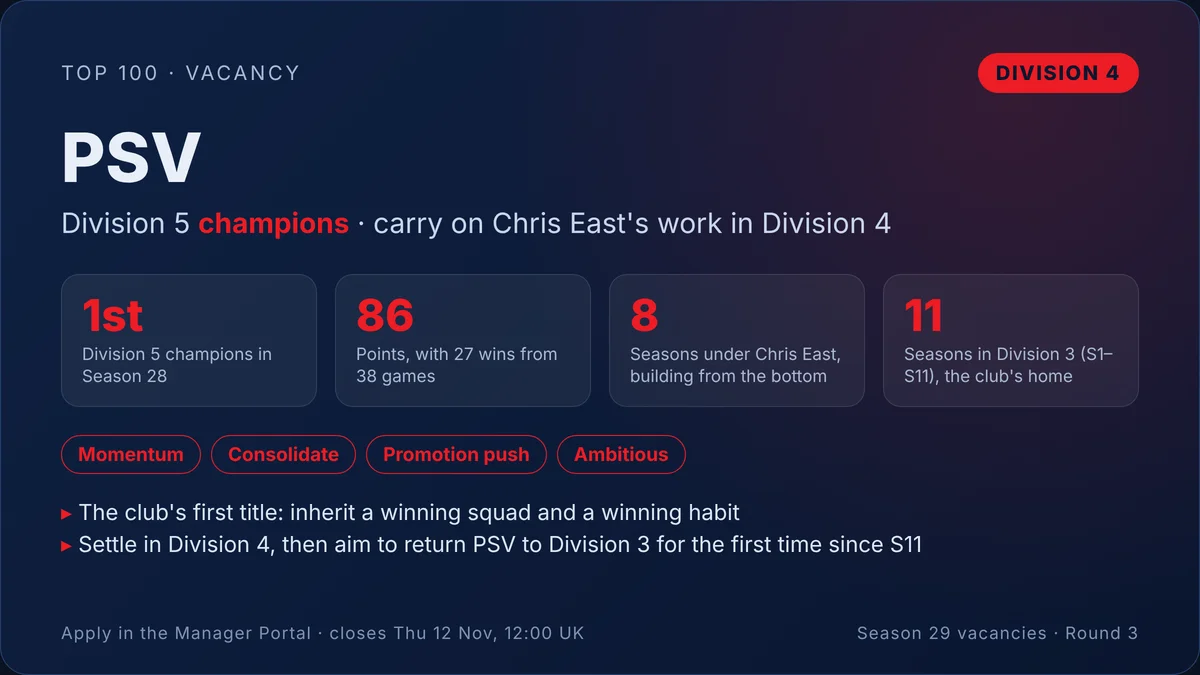
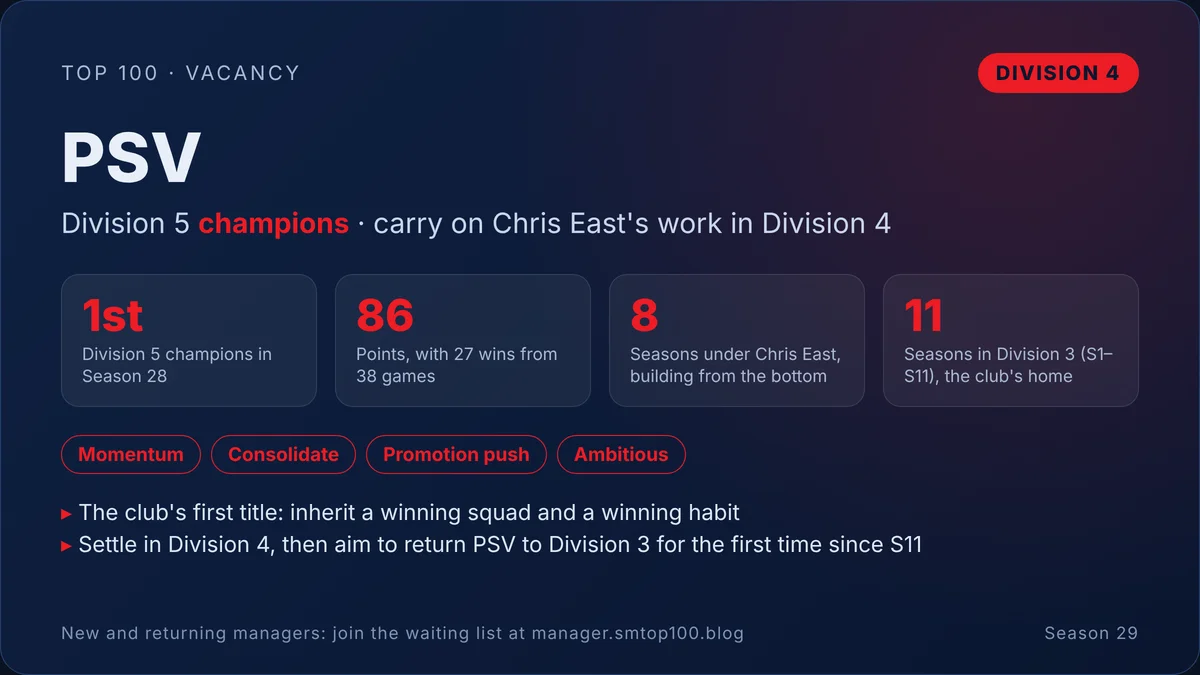
Profile card for Giuseppe Trovato, and club cards for new managers (#415)
* Chat: announce awards votes and community polls when they open

The Chat job now also posts each Shared Voting event (awards or poll) once, 15 minutes after it
opens: the categories and nominees for awards, the question for a poll, the closing time and
where to vote. Posted by Top 100 News, keyed top-100:vote:e<id>.

Claude-Session: https://claude.ai/code/session_01VdxSby1fo79zG1TxWa4d3t

* Keep the voting link when a long vote announcement is shortened

Claude-Session: https://claude.ai/code/session_01VdxSby1fo79zG1TxWa4d3t

* Public vote counter, and voting as part of manager activity

voting_turnout() gives the ballots cast and electorate for each open or closed awards vote and
poll (counts only). The voting site shows it on each vote. appointment_manager_inputs now
includes the share of awards and polls a manager voted in over the last 12 months, and the
admin appointments page uses it as a scoring input.

Claude-Session: https://claude.ai/code/session_01VdxSby1fo79zG1TxWa4d3t

* Appointments: fill inputs added since a round was saved from records

Claude-Session: https://claude.ai/code/session_01VdxSby1fo79zG1TxWa4d3t

* Club profile cards for open vacancies, in the Manager Portal and Chat

Round 3 of the S29 vacancies (Udinese, Sevilla, Southampton, PSV): a card per club with its
history, trajectory, honours and the manager it needs (sources in
docs/appointment-cards/s28-round3-clubs.html). VACANCY_CARDS is keyed by vacancy id; the Portal
[…]

Changed region(s): [[0.0617, 0.9333, 0.6167, 0.9644], [0.7092, 0.9333, 0.9558, 0.9644]]

diff --git a/docs/appointment-cards/s28-round3-clubs.html b/docs/appointment-cards/s28-round3-clubs.html
@@ -26,7 +26,7 @@ ul li::before{content:"▸ ";color:var(--accent)}
  <div class="stats"><div class="stat"><div class="n">D5→D1</div><div class="l">From Division 5 in Season 10 to Division 1 in Season 29</div></div><div class="stat"><div class="n">6</div><div class="l">Promotions, two of them through the play-offs</div></div><div class="stat"><div class="n">66</div><div class="l">Points in Season 28, 2nd under Neil Frankland</div></div><div class="stat"><div class="n">18/40</div><div class="l">Promoted clubs since S19 that finished bottom four</div></div></div>
  <div class="apt"><span>Survival first</span><span>Squad builder</span><span>Transfer market</span><span>Calm under pressure</span></div>
  <ul><li>Needs a manager to keep a newly promoted squad in Division 1, then build on it</li><li>History made: a club that started in Division 4 has never played in the top flight</li></ul>
- <div class="foot"><span>Apply in the Manager Portal · closes Thu 12 Nov, 12:00 UK</span><span>Season 29 vacancies · Round 3</span></div>
+ <div class="foot"><span>New and returning managers: join the waiting list at manager.smtop100.blog</span><span>Season 29</span></div>
 </div>
 <div class="card" id="sevilla" style="--accent:#ffb81c;--glow:rgba(255,184,28,.18)">
  <div class="top"><span>Top 100 · Vacancy</span><span class="badge">Division 2</span></div>
@@ -35,7 +35,7 @@ ul li::before{content:"▸ ";color:var(--accent)}
  <div class="stats"><div class="stat"><div class="n">3</div><div class="l">Promotions in nine seasons under Mister TRX (S20–S28)</div></div><div class="stat"><div class="n">6th</div><div class="l">In Division 2 in Season 28, 59 points</div></div><div class="stat"><div class="n">5</div><div class="l">Honours, including the World Club Shield (S7)</div></div><div class="stat"><div class="n">2</div><div class="l">Seasons in Division 1: S1 and S8</div></div></div>
  <div class="apt"><span>Rebuilder</span><span>Patient</span><span>Youth and value</span><span>Long-term project</span></div>
  <ul><li>Climbed from Division 5 to Division 2, but the squad now needs rebuilding</li><li>Honours: World Club Shield, Youth Shield, and D2, D3 and D5 play-off wins</li></ul>
- <div class="foot"><span>Apply in the Manager Portal · closes Thu 12 Nov, 12:00 UK</span><span>Season 29 vacancies · Round 3</span></div>
+ <div class="foot"><span>New and returning managers: join the waiting list at manager.smtop100.blog</span><span>Season 29</span></div>
 </div>
 <div class="card" id="southampton" style="--accent:#e63946;--glow:rgba(230,57,70,.2)">
  <div class="top"><span>Top 100 · Vacancy</span><span class="badge">Division 3</span></div>
@@ -44,7 +44,7 @@ ul li::before{content:"▸ ";color:var(--accent)}
  <div class="stats"><div class="stat"><div class="n">10th</div><div class="l">In Division 3 in Season 28, up from 13th the season before</div></div><div class="stat"><div class="n">8</div><div class="l">Seasons in Division 2 under Rob Ryan (S13–S20)</div></div><div class="stat"><div class="n">3</div><div class="l">Honours: D4 champions (S2), D3 play-offs (S3, S9)</div></div><div class="stat"><div class="n">S21</div><div class="l">The club's one season in Division 1</div></div></div>
  <div class="apt"><span>Continuity</span><span>Steady climber</span><span>Squad development</span><span>Play-off push</span></div>
  <ul><li>Up three places last season: the next manager inherits a squad on the way up</li><li>A Division 2 club for most of its history, with a Division 1 season to aim for</li></ul>
- <div class="foot"><span>Apply in the Manager Portal · closes Thu 12 Nov, 12:00 UK</span><span>Season 29 vacancies · Round 3</span></div>
+ <div class="foot"><span>New and returning managers: join the waiting list at manager.smtop100.blog</span><span>Season 29</span></div>
 </div>
 <div class="card" id="psv" style="--accent:#ed1c24;--glow:rgba(237,28,36,.18)">
  <div class="top"><span>Top 100 · Vacancy</span><span class="badge">Division 4</span></div>
@@ -53,6 +53,15 @@ ul li::before{content:"▸ ";color:var(--accent)}
  <div class="stats"><div class="stat"><div class="n">1st</div><div class="l">Division 5 champions in Season 28</div></div><div class="stat"><div class="n">86</div><div class="l">Points, with 27 wins from 38 games</div></div><div class="stat"><div class="n">8</div><div class="l">Seasons under Chris East, building from the bottom</div></div><div class="stat"><div class="n">11</div><div class="l">Seasons in Division 3 (S1–S11), the club's home</div></div></div>
  <div class="apt"><span>Momentum</span><span>Consolidate</span><span>Promotion push</span><span>Ambitious</span></div>
  <ul><li>The club's first title: inherit a winning squad and a winning habit</li><li>Settle in Division 4, then aim to return PSV to Division 3 for the first time since S11</li></ul>
- <div class="foot"><span>Apply in the Manager Portal · closes Thu 12 Nov, 12:00 UK</span><span>Season 29 vacancies · Round 3</span></div>
+ <div class="foot"><span>New and returning managers: join the waiting list at manager.smtop100.blog</span><span>Season 29</span></div>
+</div>
+<div class="card" id="psg" style="--accent:#4f8cff;--glow:rgba(79,140,255,.2)">
+ <div class="top"><span>Top 100 · Vacancy</span><span class="badge">Division 5</span></div>
+ <h1>Paris Saint-Germain</h1>
+ <div class="move">A <b>fallen giant</b> · founding Division 1 club, now rebuilding from Division 5</div>
+ <div class="stats"><div class="stat"><div class="n">13</div><div class="l">Seasons in Division 1, the last in S16</div></div><div class="stat"><div class="n">3rd</div><div class="l">Best finish: Division 1 in S12, under Mister TRX</div></div><div class="stat"><div class="n">6</div><div class="l">Honours, including the World Club Cup (S11)</div></div><div class="stat"><div class="n">D1→D5</div><div class="l">Relegated four times since S16: time to turn it round</div></div></div>
+ <div class="apt"><span>Rebuilder</span><span>Promotion push</span><span>Ambitious</span><span>Long-term project</span></div>
+ <ul><li>Honours: World Club Cup, three SMFA trophies and Division 2 champions (S14)</li><li>A big name with a long way to climb: start in Division 5 and bring PSG home</li></ul>
+ <div class="foot"><span>New and returning managers: join the waiting list at manager.smtop100.blog</span><span>Season 29</span></div>
 </div>
 </body></html>

diff --git a/docs/appointment-cards/s28-round3-cards.html b/docs/appointment-cards/s28-round3-cards.html
@@ -1,0 +1,35 @@
+<!doctype html><html><head><meta charset="utf-8"><style>
+*{box-sizing:border-box;margin:0;padding:0}
+body{background:#0b1220;font-family:"Segoe UI",Roboto,Helvetica,Arial,sans-serif;color:#e8eef8;padding:20px}
+.card{width:1200px;height:675px;margin:0 0 30px;border-radius:28px;padding:52px 60px;position:relative;overflow:hidden;
+ background:radial-gradient(circle at 85% 15%,var(--glow) 0,transparent 45%),linear-gradient(135deg,#0f2142 0%,#0a1630 100%);border:1px solid #24406b;display:flex;flex-direction:column}
+.top{display:flex;justify-content:space-between;align-items:center;font-size:20px;letter-spacing:.14em;text-transform:uppercase;color:#a9b8d0}
+.badge{background:var(--accent);color:#0a1630;font-weight:800;padding:8px 18px;border-radius:999px;letter-spacing:.08em}
+h1{font-size:68px;line-height:1.05;margin-top:30px;font-weight:800}
+.move{font-size:28px;margin-top:12px;color:#c9d6ea}.move b{color:var(--accent)}
+.stats{display:flex;gap:18px;margin-top:34px}
+.stat{flex:1;background:rgba(255,255,255,.06);border:1px solid rgba(255,255,255,.1);border-radius:18px;padding:18px 20px}
+.stat .n{font-size:44px;font-weight:800;color:var(--accent);line-height:1}
+.stat .l{font-size:17px;color:#a9b8d0;margin-top:8px;line-height:1.25}
+.apt{display:flex;flex-wrap:wrap;gap:10px;margin-top:28px}
+.apt span{border:1.5px solid var(--accent);color:var(--accent);border-radius:999px;padding:7px 16px;font-size:19px;font-weight:700}
+ul{margin-top:24px;list-style:none;font-size:22px;line-height:1.45;color:#dbe5f4}
+ul li::before{content:"▸ ";color:var(--accent)}
+.foot{position:absolute;bottom:30px;left:60px;right:60px;display:flex;justify-content:space-between;font-size:17px;color:#7f93b3;letter-spacing:.06em}
+</style></head><body>
+<div class="card" id="giuseppe" style="--accent:#f2f2f2;--glow:rgba(255,255,255,.16)">
+ <div class="top"><span>Top 100 · New manager</span><span class="badge">Udinese Calcio</span></div>
+ <h1>Giuseppe Trovato</h1>
+ <div class="move">From <b>Paris Saint-Germain</b> to <b>Udinese Calcio</b> · 10 seasons in Top 100</div>
+ <div class="stats">
+  <div class="stat"><div class="n">1st</div><div class="l">Division 1 season, for manager and club alike</div></div>
+  <div class="stat"><div class="n">10</div><div class="l">Seasons in Top 100, at Dynamo Moskva, Lazio, Valencia and PSG</div></div>
+  <div class="stat"><div class="n">3</div><div class="l">Divisions managed in: 2, 4 and 5</div></div>
+  <div class="stat"><div class="n">0</div><div class="l">Forfeits this season, and a Gold member</div></div>
+ </div>
+ <div class="apt"><span>Stepped up</span><span>Survival mission</span><span>Experienced</span><span>Big challenge</span></div>
+ <ul><li>Took on Udinese when no one applied in round 3</li>
+ <li>The club's first ever Division 1 season: the target is to stay up</li></ul>
+ <div class="foot"><span>smtop100.blog</span><span>Season 29 appointments · Round 3</span></div>
+</div>
+</body></html>
